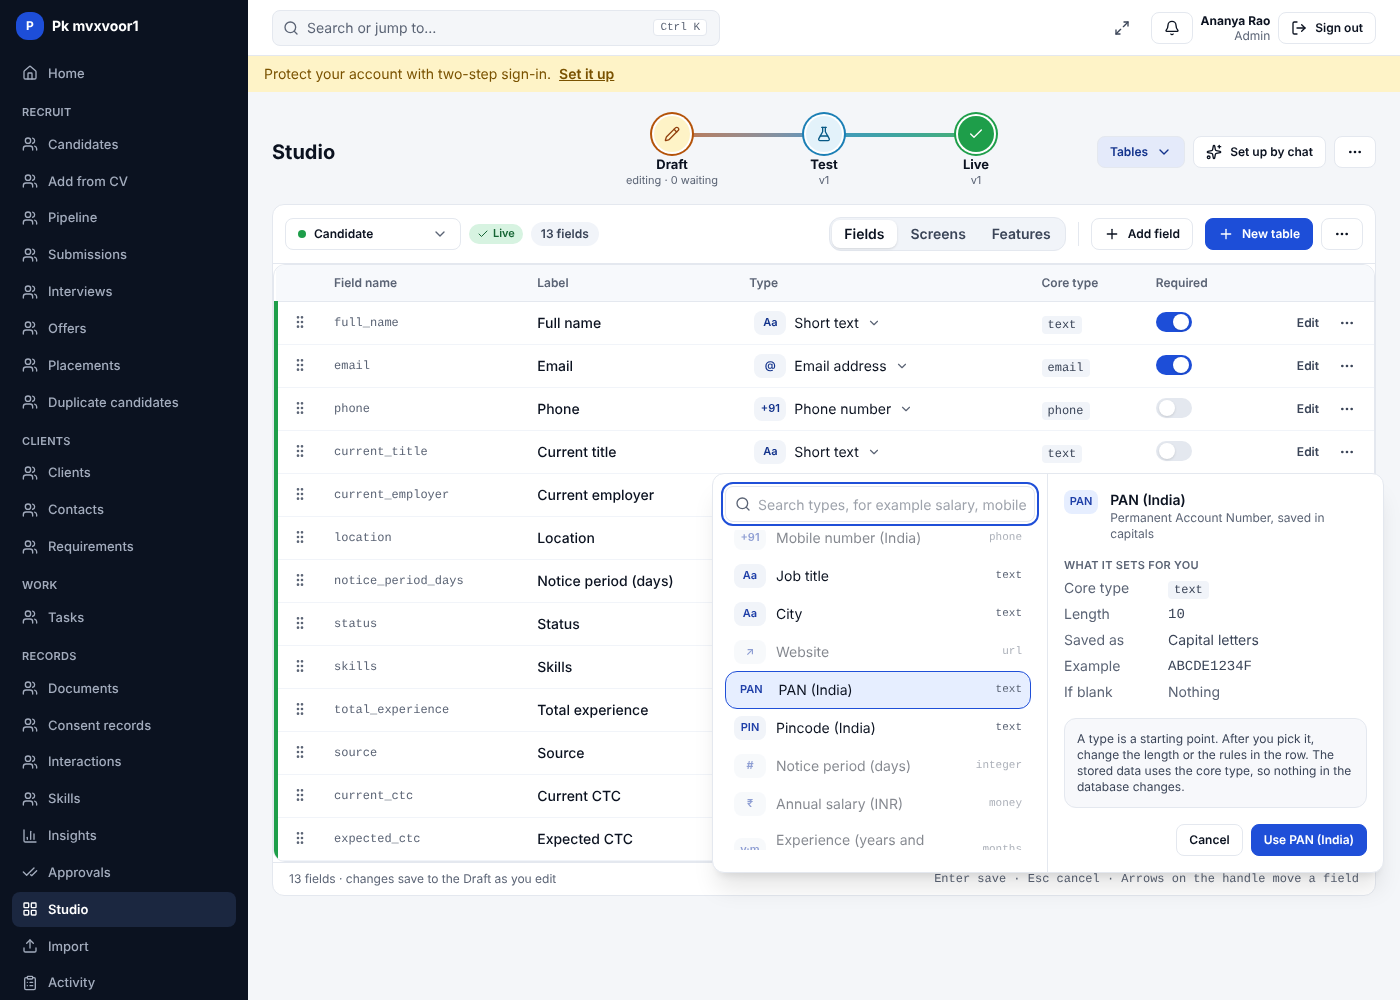
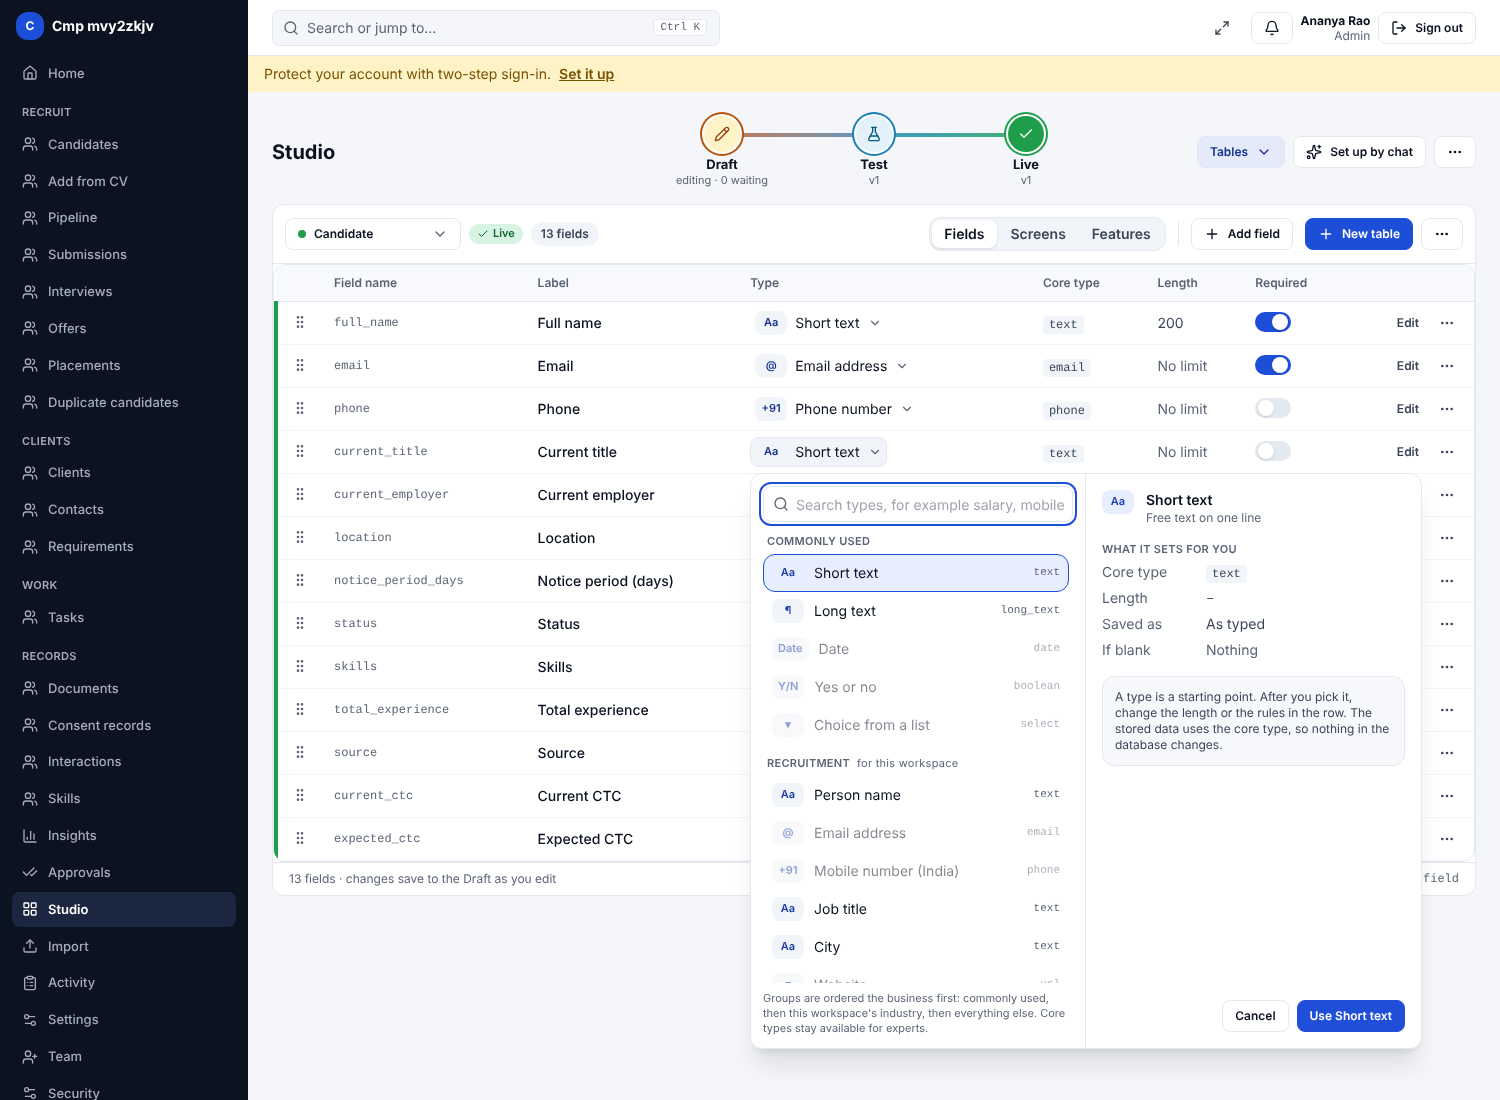
feat(S2): board 2 comparison pass: taller picker that fits the window, caption, industry subtitle, common order
Claude-Session: https://claude.ai/code/session_01WKgCPB21QZrQNwipExUmFF

diff --git a/apps/web/src/features/studio/TypePicker.tsx b/apps/web/src/features/studio/TypePicker.tsx
@@ -133,7 +133,7 @@ export function TypePicker({
         )}
       </Popover.Trigger>
       <Popover.Portal>
-        <Popover.Content align="start" sideOffset={6} collisionPadding={16} aria-label="Type picker" className="z-50 flex w-[42rem] max-w-[95vw] overflow-hidden rounded-xl border border-line bg-surface shadow-xl">
+        <Popover.Content align="start" sideOffset={6} collisionPadding={16} aria-label="Type picker" className="z-50 flex h-[min(36rem,var(--radix-popover-content-available-height))] w-[42rem] max-w-[95vw] overflow-hidden rounded-xl border border-line bg-surface shadow-xl">
           <div className="flex w-1/2 min-w-0 flex-col border-r border-line p-3">
             <div className="relative">
               <Search className="pointer-events-none absolute left-2.5 top-2.5 size-4 text-muted" aria-hidden />
@@ -151,7 +151,7 @@ export function TypePicker({
                 className="h-9 w-full rounded-md border border-line bg-surface pl-8 pr-2 text-sm"
               />
             </div>
-            <div ref={listRef} id={`${id}-list`} role="listbox" aria-label="Types" className="mt-2 max-h-80 overflow-y-auto pr-1">
+            <div ref={listRef} id={`${id}-list`} role="listbox" aria-label="Types" className="mt-2 min-h-0 flex-1 overflow-y-auto pr-1">
               {groups.map((g) => (
                 <div key={g.key} role="group" aria-label={g.title} className="mb-2">
                   <p className="px-1 pb-1 pt-1 text-[11px] font-semibold uppercase tracking-wide text-muted">
@@ -173,6 +173,7 @@ export function TypePicker({
                 )}
               </div>
             </div>
+            <p className="mt-2 text-[11px] leading-snug text-muted">Groups are ordered the business first: commonly used, then this workspace's industry, then everything else. Core types stay available for experts.</p>
           </div>
           <div className="flex w-1/2 min-w-0 flex-col p-4">
             {active ? (
@@ -181,7 +182,7 @@ export function TypePicker({
                   <Tile text={active.tile} active />
                   <div>
                     <p className="font-semibold text-ink">{active.name}</p>
-                    <p className="text-xs text-muted">{active.description}</p>
+                    <p className="text-xs text-muted">{active.preset ? `${areaLabel} · ` : ''}{active.description}</p>
                   </div>
                 </div>
                 <p className="mt-4 text-[11px] font-semibold uppercase tracking-wide text-muted">What it sets for you</p>

diff --git a/apps/web/src/features/studio/typeCatalog.ts b/apps/web/src/features/studio/typeCatalog.ts
@@ -38,7 +38,7 @@ export function buildChoices(data: TypePresets | undefined, areaName: string): T
   void areaName
   const rank = (c: TypeChoice) => (c.preset ? -c.preset.used : 0)
   const order = (list: TypeChoice[]) => [...list].sort((a, b) => rank(a) - rank(b))
-  return [...order(core.filter((c) => c.group === 'common')), ...order(presets), ...core.filter((c) => c.group === 'other')]
+  return [...core.filter((c) => c.group === 'common').sort((a, b) => COMMON.indexOf(a.core) - COMMON.indexOf(b.core)), ...order(presets), ...core.filter((c) => c.group === 'other')]
 }
 
 function presetTile(p: TypePreset): string {

diff --git a/docs/screens/studio-table/s2/compare-board-2.md b/docs/screens/studio-table/s2/compare-board-2.md
@@ -1,0 +1,24 @@
+# S2 against board 2 (Type picker)
+
+Mockup: `docs/screens/studio-table/2-type-picker.png`. Built: `s2/after-picker.png`, `after-add-field.png`, `after-length.png`, `after-shrink-confirm.png`, `after-type-name-panel.png`.
+
+| Part of board 2 | Built | Where it belongs |
+|---|---|---|
+| Search box with the example placeholder | Yes | S2.3 |
+| Commonly used: Short text, Long text, Date, Yes or no, Choice from a list (this order) | Yes, order fixed in the comparison pass | S2.3 |
+| Group for this workspace's industry, ranked by use | Yes | S2.3 |
+| All others, then Core types (low level) with Show all 14 | Yes | S2.3 |
+| Right pane: tile, name, "Industry · description" | Yes, industry prefix added in the comparison pass | S2.3 |
+| Right pane: Core type, Length, Saved as, Example, If blank | Yes | S2.3 |
+| Right pane: Validation row (pattern and plain words) | No | S3 (validation fx) |
+| Right pane: "Capital letters, spaces removed" | Capital letters only; spaces removal arrives with transformation rules | S5 |
+| Explanatory box "a type is a starting point" | Yes, wording mentions length and rules until S3 and S5 add validation and defaults | S2.3 |
+| Footer caption "Groups are ordered the business first" | Yes, added in the comparison pass | S2.3 |
+| Cancel and "Use <type>" buttons, always visible | Yes, picker now fits the window and scrolls inside | S2.3 |
+| Length column in the grid | Yes, editable | S2.4 |
+| Shrinking a length asks first, with the record count | Yes | S2.5 |
+| Add field dialog uses the same picker | Yes | S2.6 |
+| Same type name in the grid and the field panel | Yes | S2.7 |
+| Validation column in the grid | No | S3 |
+| "New" badge on a new row | Shown as the Draft badge, the stage colours decided in S0 | S0 |
+| Published removal record count on Undo | No, still open | S2 |
